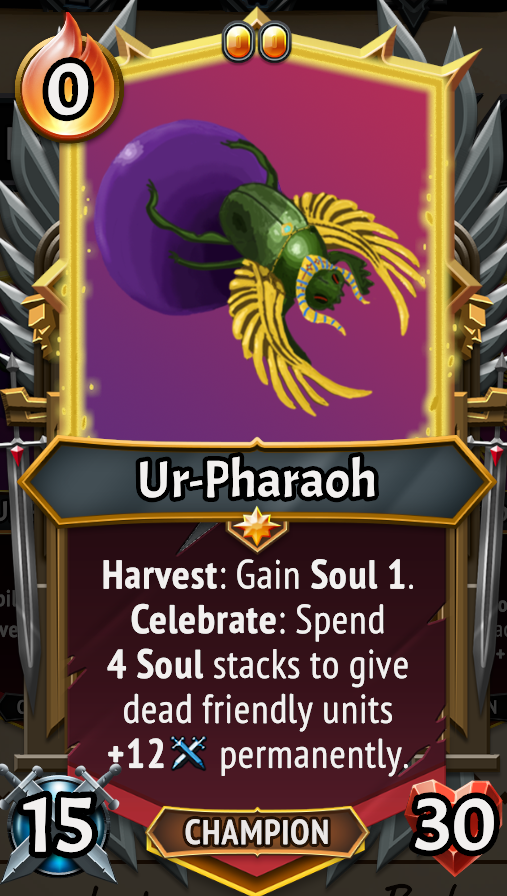
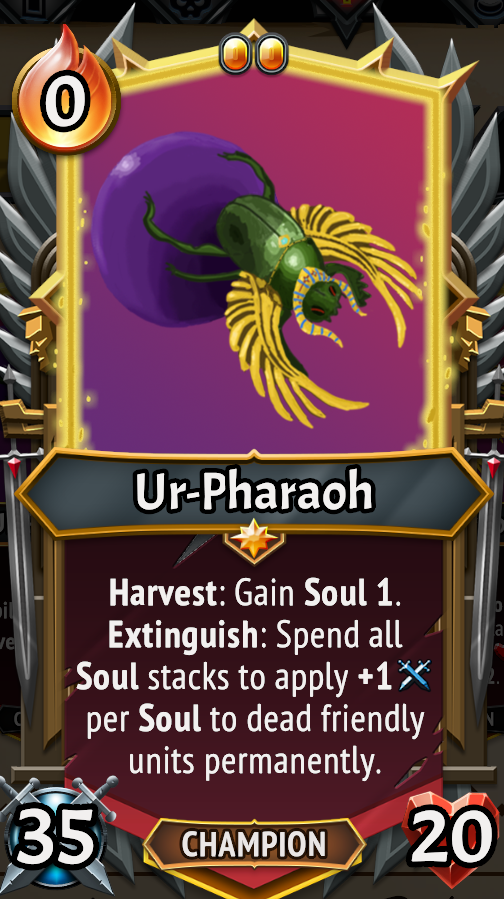
Soulmonger rework

diff --git a/mt2_sandscourged.Plugin/code/CardEffectAddUpgradeToDeadUnits.cs b/mt2_sandscourged.Plugin/code/CardEffectAddUpgradeToDeadUnits.cs
@@ -37,29 +37,37 @@ namespace mt2_sandscourged.Plugin
 			propDescriptions[fieldName3] = new PropDescription("Use Status Effect Stack Multiplier", "", typeof(bool), false);
 			string fieldName4 = CardEffectFieldNames.ParamStatusEffects.GetFieldName();
 			propDescriptions[fieldName4] = new PropDescription("Status Effects to multiply by", "", null, false);
+			string fieldName5 = CardEffectFieldNames.ParamBool.GetFieldName();
+			propDescriptions[fieldName5] = new PropDescription("Is From Celeberate", "", typeof(bool), false);
 			return propDescriptions;
 		}
 
 
 		public override IEnumerator ApplyEffect(CardEffectState cardEffectState, CardEffectParams cardEffectParams, ICoreGameManagers coreGameManagers, ISystemManagers sysManagers)
 		{
+			bool isFromCelebrate = cardEffectState.GetParamBool();
 			// This implementation will only work with Celebrate, and ONLY if the AddUpgradeToDeadUnitsPatch is applied.
-			if (consumedCards.IsNullOrEmpty())
+			if (isFromCelebrate && consumedCards.IsNullOrEmpty())
 			{
 				Console.Write("No consumed cards found, skipping upgrade application.");
 				yield break;
 			}
 			else
 			{
-				var deadUnits = consumedCards.Where(c => c.IsSpawnerCard());
+				var deadUnits = new List<CardState>();
+				// This can only happen post the boss dying, either via celebrate, or werid timing with extinguish.
+				if (consumedCards != null)
+					deadUnits = [.. consumedCards.Where(c => c.IsSpawnerCard())];
+				else
+					deadUnits = [.. coreGameManagers.GetCardManager().GetExhaustedPile().Where(c => c.IsSpawnerCard())];
 				Console.Write(deadUnits.Count() + " dead units found for upgrade application.");
-				bool flag = false;
 				bool isTemporary = cardEffectState.GetParamInt() != (int)UnitUpgradeLifetime.Permanent;
 				int mult = 1;
 				if (cardEffectState.GetUseStatusEffectStackMultiplier())
 				{
 					if (cardEffectParams.selfTarget == null)
 					{
+						Console.Write("No self target found, cannot apply status effect stack multiplier.");
 						yield break;
 					}
 
@@ -67,29 +75,24 @@ namespace mt2_sandscourged.Plugin
 					string? statusId = cardEffectState.GetParamStatusEffectStackData().FirstOrDefault()?.statusId;
 					if (statusId == null)
 					{
+						Console.Write("No status effect found in upgrade data, cannot apply status effect stack multiplier.");
 						yield break;
 					}
 					mult = cardEffectParams.selfTarget.GetStatusEffectStacks(statusId);
+					Console.Write("Status effect stack multiplier: " + mult);
 				}
+
+				var upg = cardEffectState.GetParamCardUpgradeData();
+				int dmg = mult * (upg?.GetBonusDamage() ?? 0);
+				int hp = mult * (upg?.GetBonusHP() ?? 0);
 
 				foreach (CardState cardState in deadUnits)
 				{
-					for (int i = 0; i < mult; i++)
-					{
-						Console.Write(cardState.GetDebugName() + " is attempting upgrade.");
-						if (CardUpgradeHelper.TryApplyUpgradeToCard(cardState, null, cardEffectState.GetParamCardUpgradeData(), isTemporary, cardEffectParams.isFromHiddenTrigger, coreGameManagers, out CardUpgradeState cardUpgradeState))
-						{
-							Console.Write(cardState.GetDebugName() + $" {i}: Success!");
-							cardState.UpdateCardBodyText(null);
-							flag = true;
-						}
-					}
+					Console.Write(cardState.GetDebugName() + " is attempting upgrade.");
+					cardState.GetCardStateModifiers().IncrementAdditionalDamage(dmg);
+					cardState.GetCardStateModifiers().IncrementAdditionalHP(hp);
 				}
 
-				if (flag)
-				{
-					base.ShowPyreNotification(cardEffectState, coreGameManagers.GetSaveManager(), sysManagers.GetPopupNotificationManager(), null);
-				}
 			}
 			consumedCards = null; // Clear the consumed cards after processing
 			yield break;
